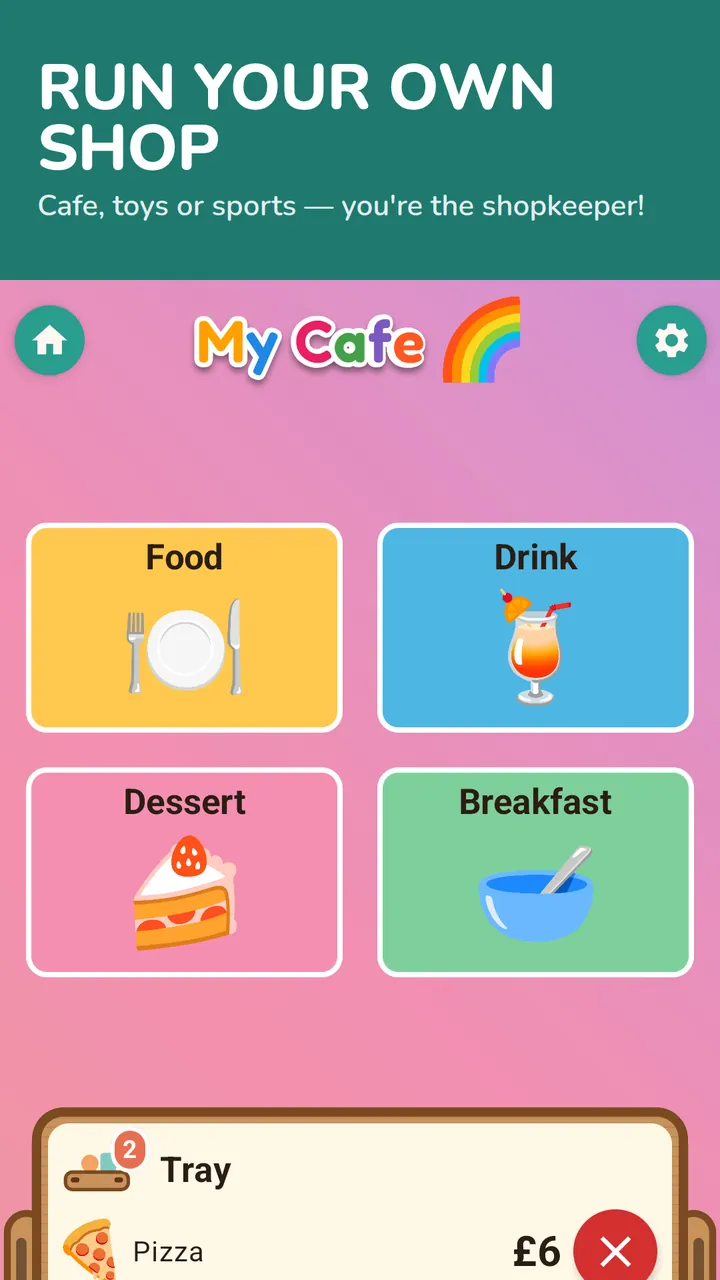
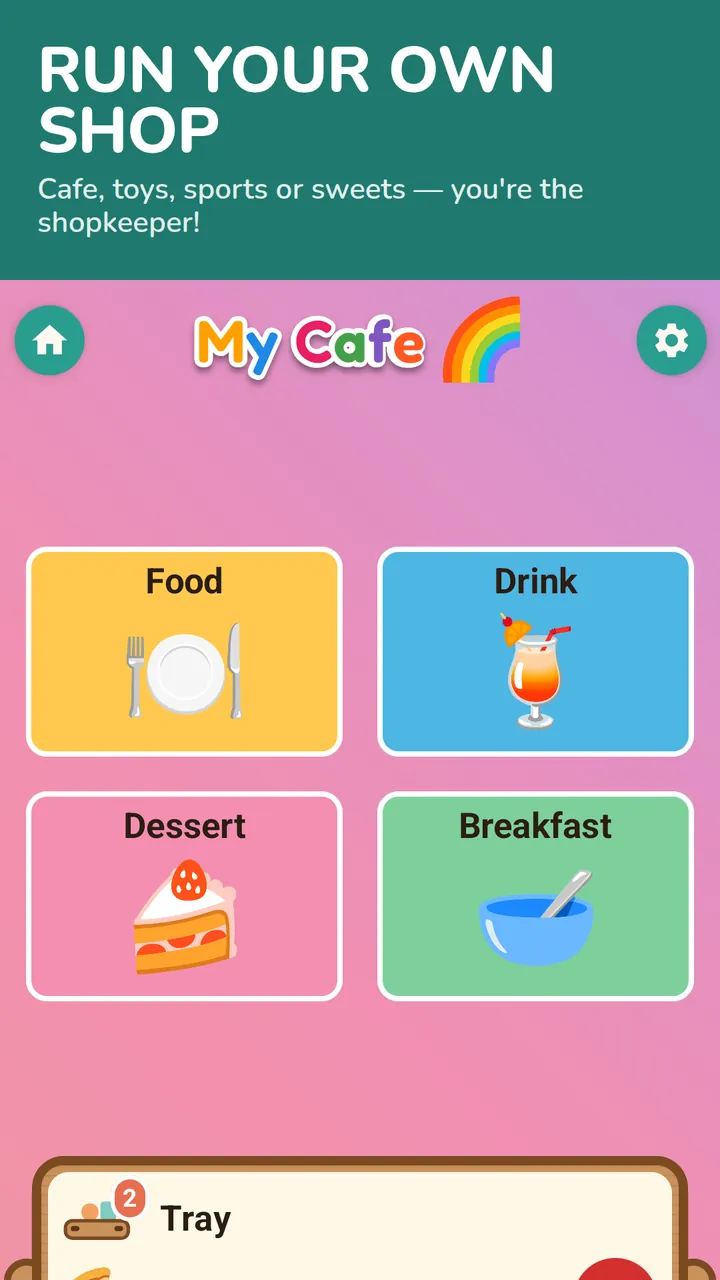
Update Kids Pretend Shop for 2.2: the Sweet Shop
Name the Sweet Shop and its sweet jar in the hero, tagline, blurb and
features, drop the shop count, and refresh the screenshots from the 2.2
listing with alt text for the new hero order, menu and four-shop grid.

diff --git a/index.html b/index.html
@@ -54,7 +54,7 @@
       </a>
       <a class="hero-app" href="#pretend-shop">
         <img src="assets/icons/pretend-shop.webp" alt="" width="72" height="72" loading="eager">
-        <span><strong>Kids Pretend Shop</strong><em>Cafe, toys &amp; sports — for kids</em></span>
+        <span><strong>Kids Pretend Shop</strong><em>Cafe, toys, sports &amp; sweets — for kids</em></span>
       </a>
     </nav>
   </div>
@@ -114,35 +114,35 @@
         <img class="app-icon" src="assets/icons/pretend-shop.webp" alt="Kids Pretend Shop app icon" width="112" height="112" loading="lazy">
         <div>
           <h2 id="shop-title">Kids Pretend Shop</h2>
-          <p class="tagline">Run your own pretend cafe, toy store and sports store.</p>
+          <p class="tagline">Run your own pretend cafe, toy store, sports store and sweet shop.</p>
           <p class="meta">Free to start · Made for ages 3+ · PEGI 3 · Android</p>
         </div>
       </div>
 
       <p class="blurb">
         Kids love playing shop. Pretend Shop turns the device into their shop:
-        serve customers who say what they want, fill the tray or bag, watch the total
+        serve customers who say what they want, fill the tray, bag or sweet jar, watch the total
         add up, and "pay" at the till or by holding two devices together — big friendly
         buttons, every word read aloud and a satisfying buzz on every tap.
       </p>
 
       <ul class="features">
-        <li><span aria-hidden="true">🏪</span><strong>Three shops to run</strong>The Cafe, the Toy Store and the Sports Store, and more on the way. They pick the name, the logo and the background.</li>
+        <li><span aria-hidden="true">🏪</span><strong>Shops to run</strong>The Cafe, the Toy Store, the Sports Store and the Sweet Shop, and more on the way. They pick the name, the logo and the background.</li>
         <li><span aria-hidden="true">🙋</span><strong>Customers come to shop</strong>Tap Play and a customer says their order out loud. Missed something? They say what they still want. No timers, no scores.</li>
         <li><span aria-hidden="true">🔊</span><strong>Hear every word</strong>Tap the speaker beside an item, shelf or total to hear it, so children who can't read yet can play on their own. Works offline.</li>
         <li><span aria-hidden="true">💷</span><strong>Little or Big</strong>Little (3–4) is a picture-only shop. Big (5+) adds names, prices and a total that grows as the order fills.</li>
         <li><span aria-hidden="true">🥜</span><strong>What's in my food?</strong>Filter the menu by gluten, dairy, eggs or nuts. A gentle way in to talking about allergies.</li>
-        <li><span aria-hidden="true">🔒</span><strong>Made for little shopkeepers</strong>No ads, no subscriptions. One purchase unlocks the Toy Store and Sports Store, behind a parent gate.</li>
+        <li><span aria-hidden="true">🔒</span><strong>Made for little shopkeepers</strong>No ads, no subscriptions. One purchase unlocks every paid shop, behind a parent gate.</li>
       </ul>
 
       <div class="shots" role="group" aria-label="Kids Pretend Shop screenshots" tabindex="0">
         <img src="assets/shots/pretend-shop/01.webp" alt="The cafe counter with Food, Drink, Dessert and Breakfast buttons and an order in the tray" width="720" height="1280" loading="lazy">
-        <img src="assets/shots/pretend-shop/02.webp" alt="Bella the Bear's order card asking for pizza, a cupcake and berry juice, beside a tray adding up to ten pounds" width="720" height="1280" loading="lazy">
-        <img src="assets/shots/pretend-shop/03.webp" alt="A shelf of chips, pizza and spaghetti, each with a speaker button to hear its name" width="720" height="1280" loading="lazy">
+        <img src="assets/shots/pretend-shop/02.webp" alt="Bella the Bear's order card asking for peanut butter toast, granola and hot chocolate, beside a tray adding up to seven pounds" width="720" height="1280" loading="lazy">
+        <img src="assets/shots/pretend-shop/03.webp" alt="The Pick one! menu of chips, pizza, pasta and hot dog, each with its price, allergy labels and a speaker button to hear its name" width="720" height="1280" loading="lazy">
         <img src="assets/shots/pretend-shop/04.webp" alt="A ten pound tap-to-pay screen next to the cafe, for a pretend contactless payment" width="720" height="1280" loading="lazy">
-        <img src="assets/shots/pretend-shop/05.webp" alt="The cafe, toy shop and sports shop side by side" width="720" height="1280" loading="lazy">
+        <img src="assets/shots/pretend-shop/05.webp" alt="The cafe, toy shop, sports shop and sweet shop in a two-by-two grid" width="720" height="1280" loading="lazy">
         <img src="assets/shots/pretend-shop/06.webp" alt="The allergy picker with dairy and nuts ticked, hiding 21 items from the menu" width="720" height="1280" loading="lazy">
-        <img src="assets/shots/pretend-shop/07.webp" alt="Two customised shops — a cafe on a cloudy sky background and a sports store on bright blue" width="720" height="1280" loading="lazy">
+        <img src="assets/shots/pretend-shop/07.webp" alt="Two customised shops — a cafe on a cloudy sky background and a sports store on teal" width="720" height="1280" loading="lazy">
         <img src="assets/shots/pretend-shop/08.webp" alt="Made for little shopkeepers — no ads, no subscriptions and parent-gated purchases" width="720" height="1280" loading="lazy">
       </div>
 
